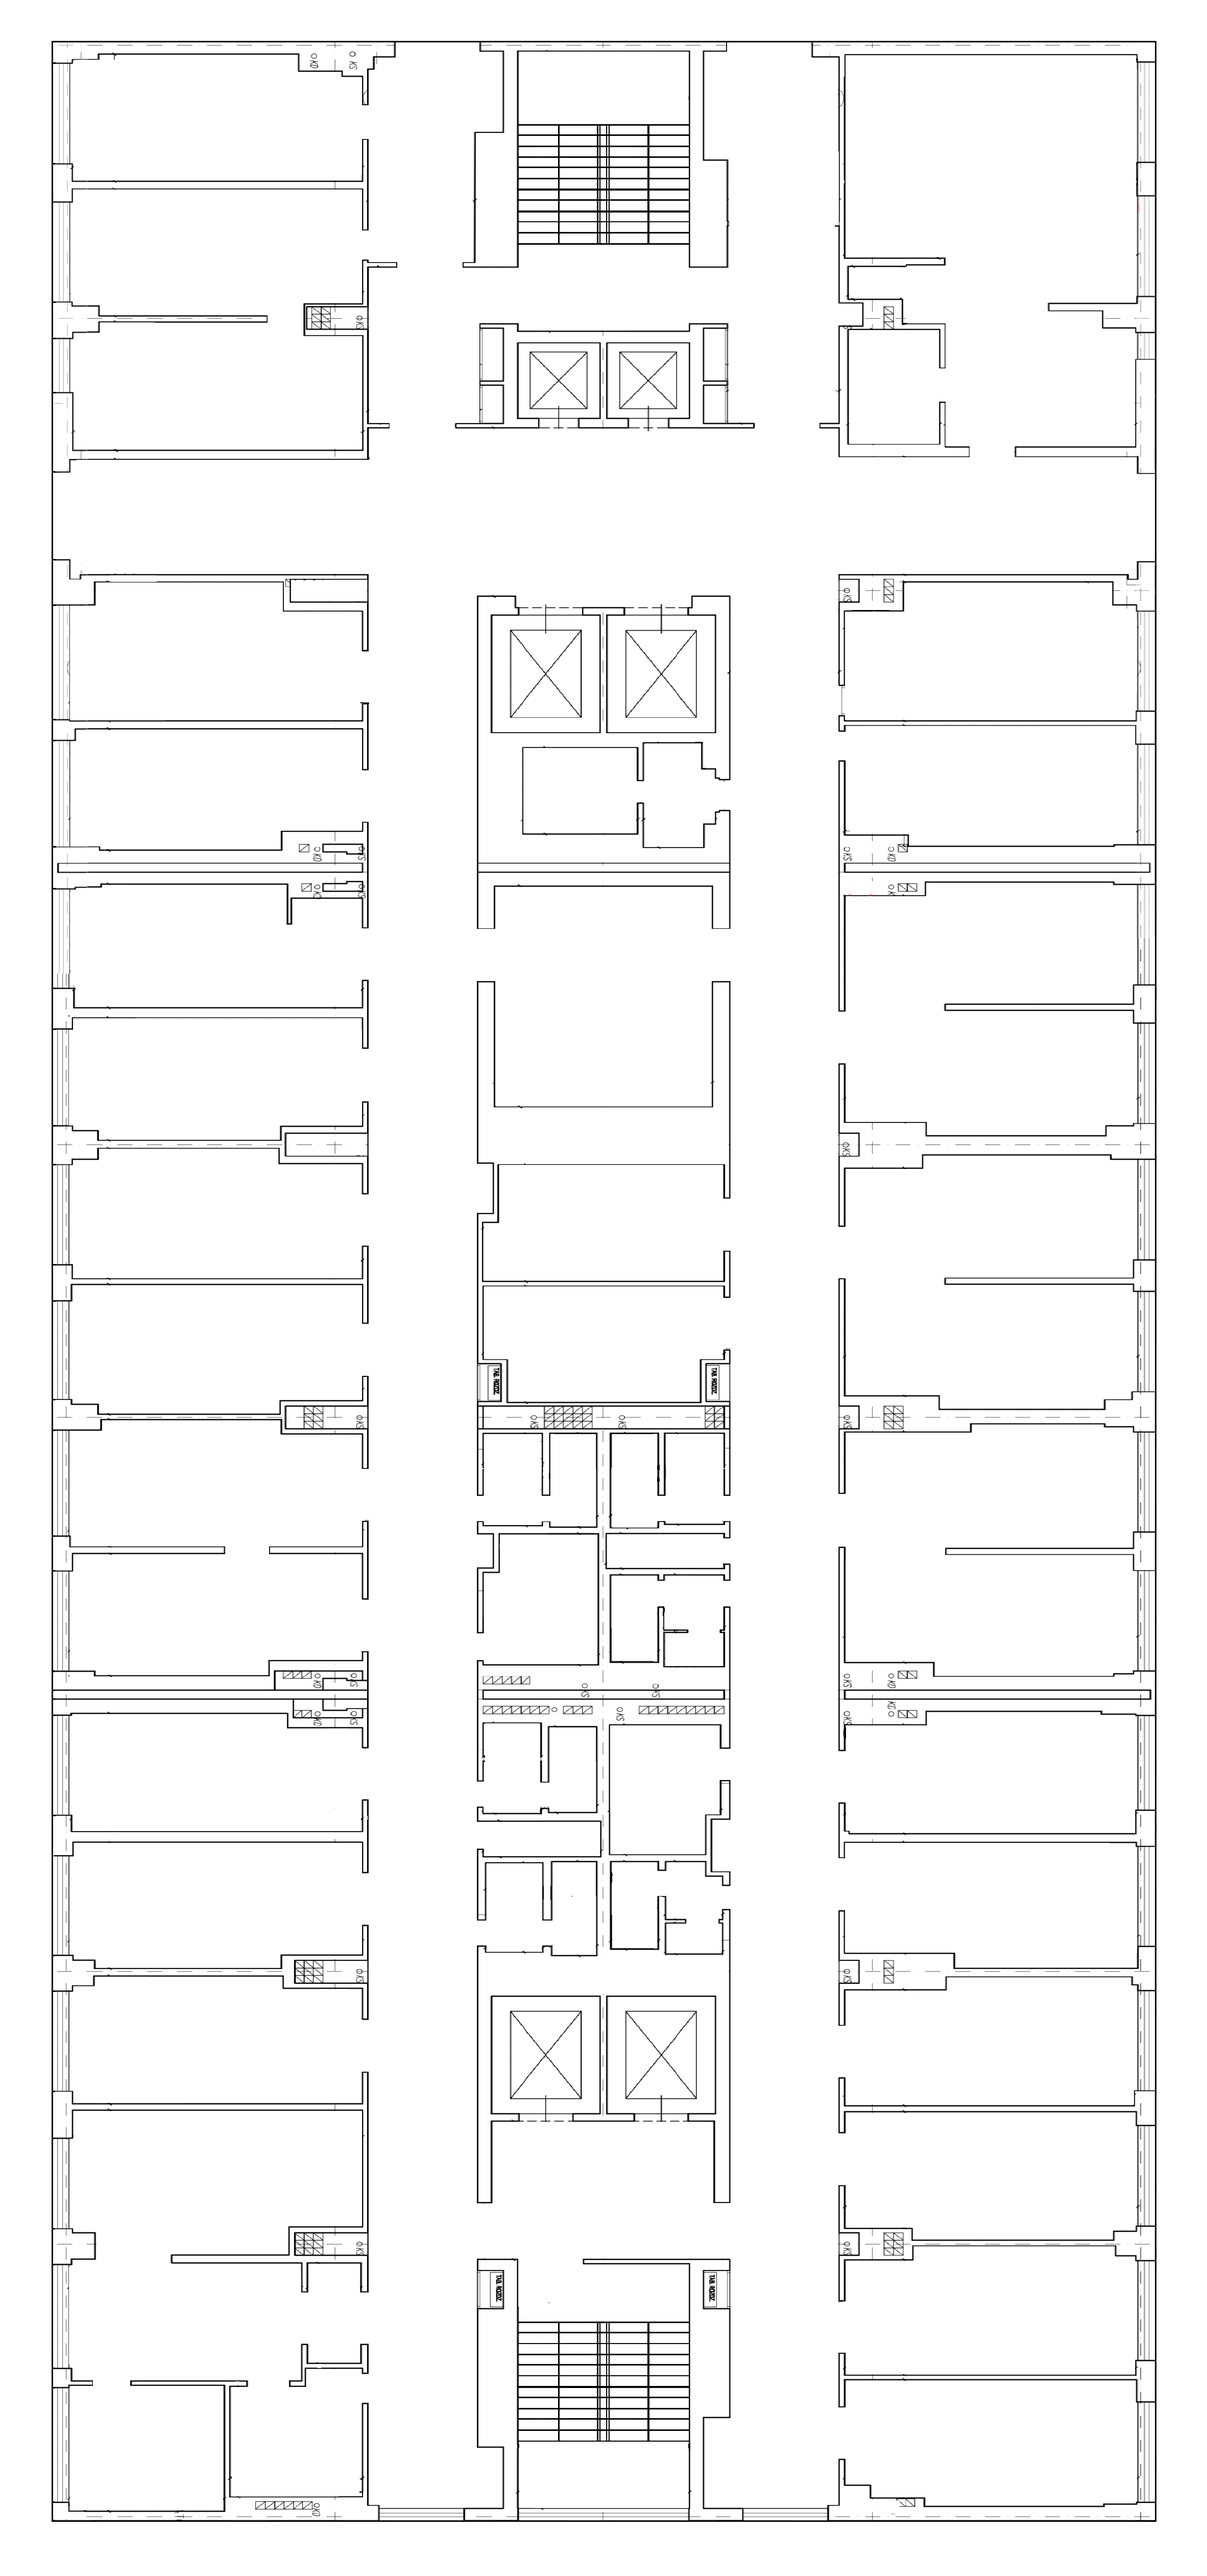
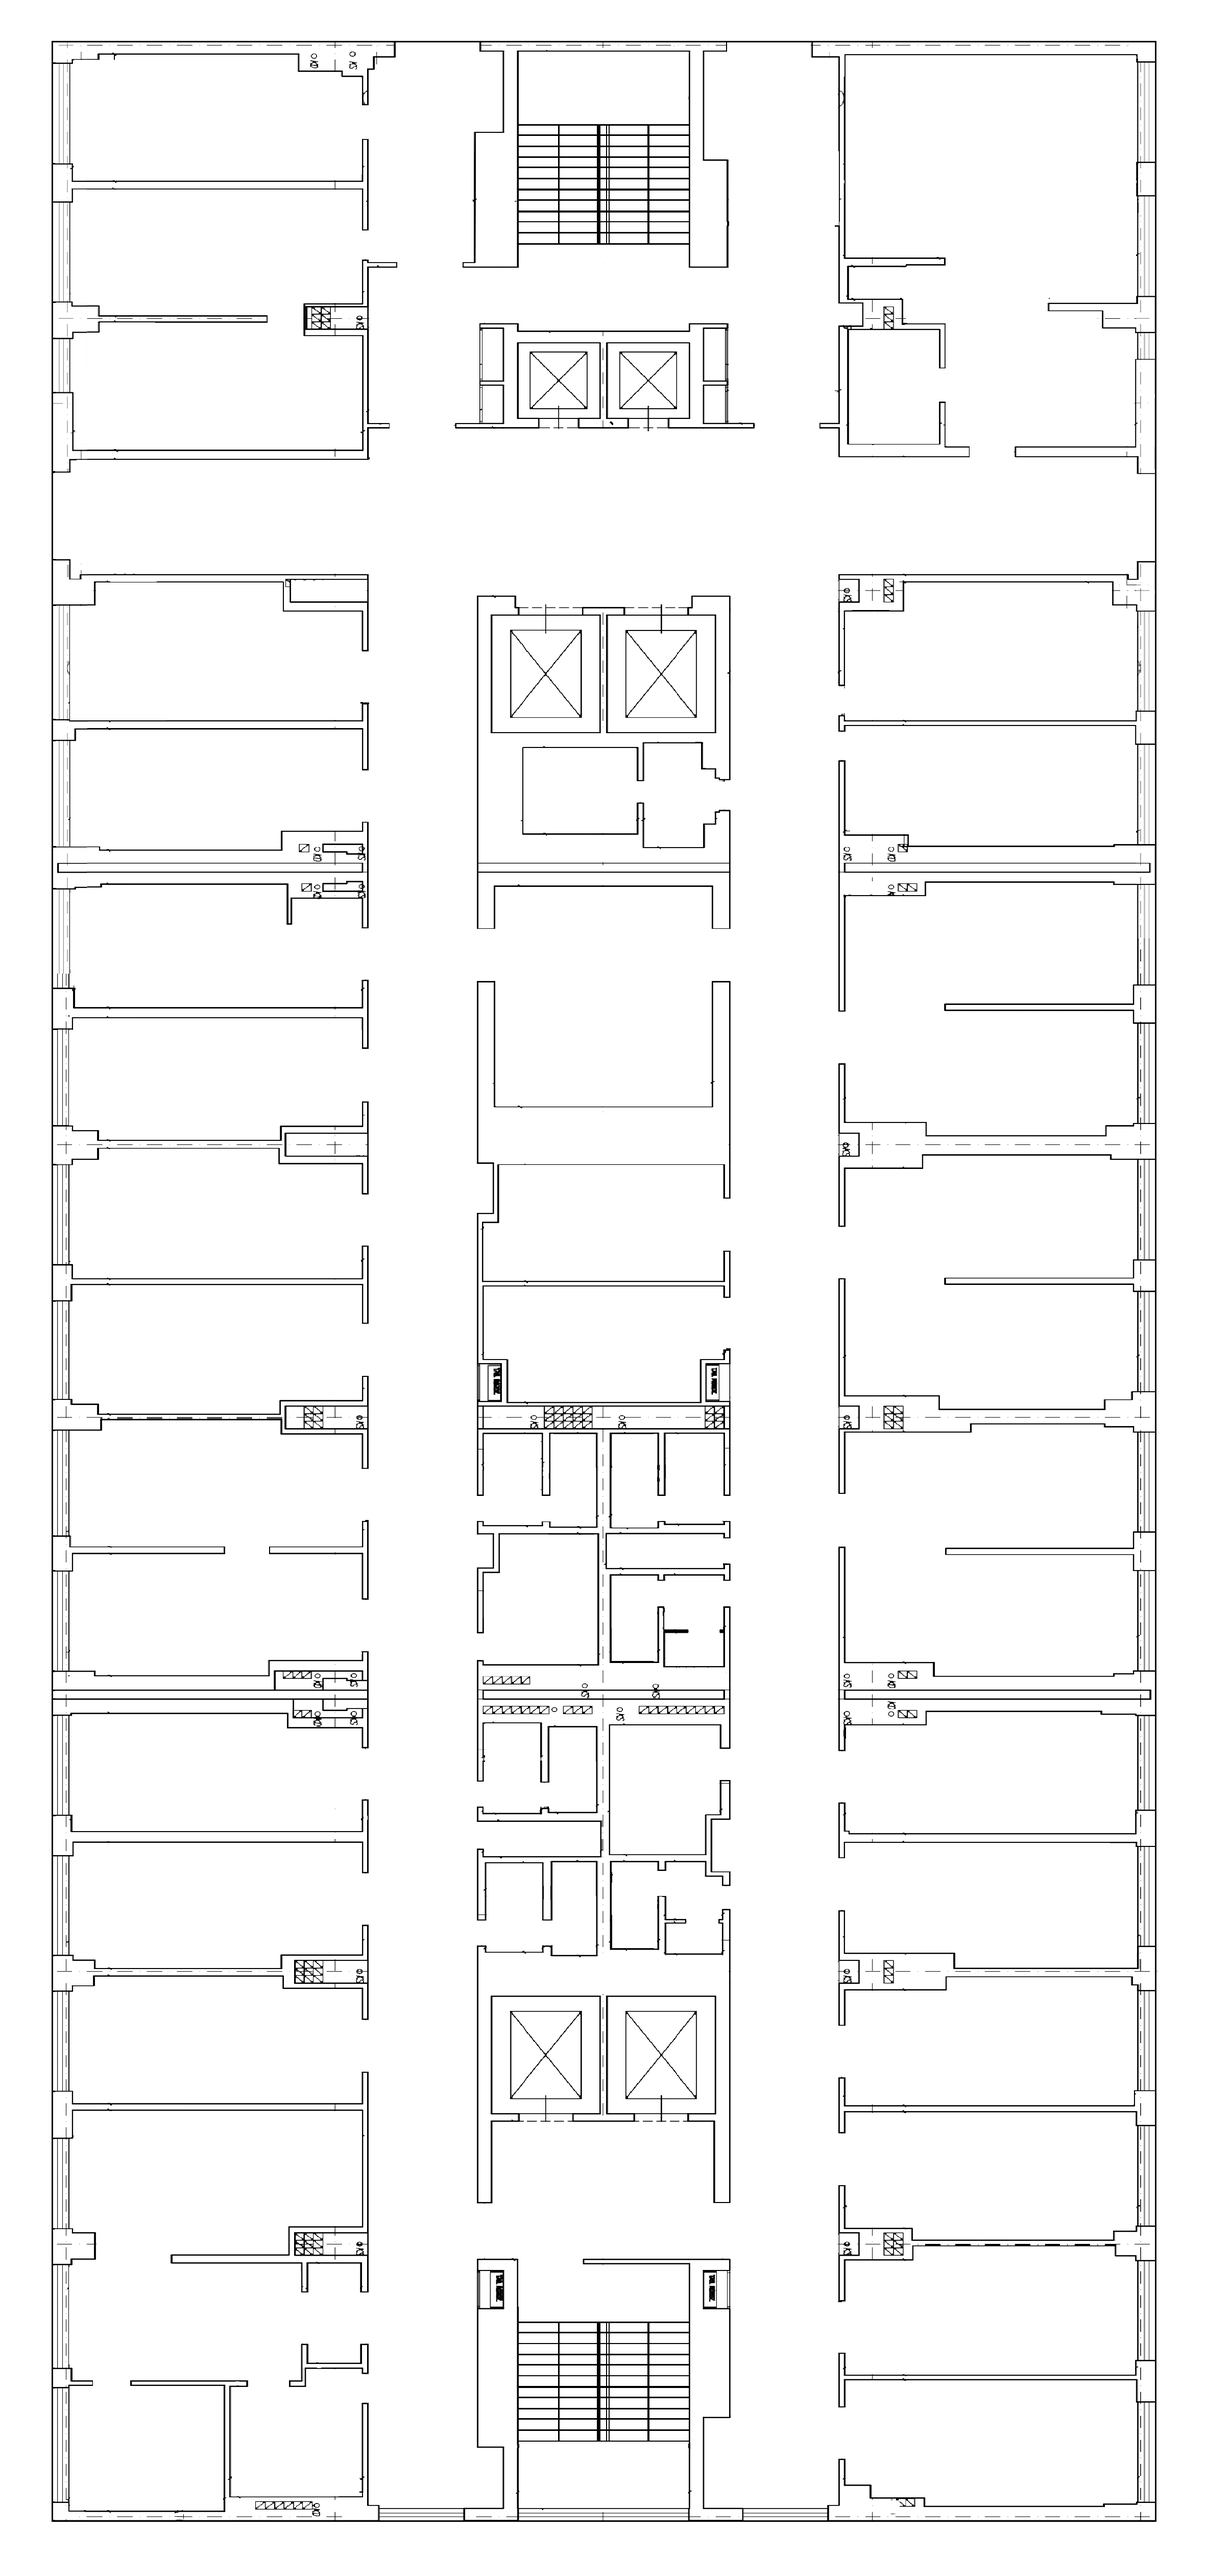
rozpoczęcie poprawek

diff --git a/static/js/campus.js b/static/js/campus.js
@@ -4,7 +4,6 @@ document.addEventListener("DOMContentLoaded", () => {
   // --- Konfiguracja pięter ---
   const FLOOR_OPTIONS = {
     "campus.png": ["powierzchnia", "podziemia"],
-    "gok_floor1.svg": ["1 piętro", "2 piętro", "3 piętro", "4 piętro", "5 piętro", "6 piętro", "7 piętro", "8 piętro"],
     "ssw_floor1.svg": ["1 piętro", "2 piętro", "3 piętro"],
     "c1_1.svg": ["Parter", "1 piętro", "2 piętro", "3 piętro", "4 piętro", "5 piętro", "5 piętro", "7 piętro", "8 piętro"],
     "c2_1.svg": ["Parter", "1 piętro"],

diff --git a/plan_editor.py b/plan_editor.py
@@ -1,22 +1,26 @@
 import cv2
 from matplotlib import pyplot as plt
 
-# Wczytaj obraz
-image = cv2.imread("static/img/C2-1.png")
+image = cv2.imread("static/img/C3_0.png")
 gray = cv2.cvtColor(image, cv2.COLOR_BGR2GRAY)
-cv2.imwrite("static/maps/C2_1.png", gray)
 
+amount = 1.5
+gauss_sigma = 1       # wygładzanie
+thresh_val = 200      # threshold intensywność linii
 
-# Progowanie - zostają czarne linie, reszta biała
-# (tutaj 200 - czyli wszystko ciemniejsze niż 200 = czarne)
-_, binary = cv2.threshold(gray, 200, 255, cv2.THRESH_BINARY)
+blurred = cv2.GaussianBlur(gray, (0,0), gauss_sigma)
+sharpen = cv2.addWeighted(gray, 1.0 + amount, blurred, -amount, 0)
 
-# Opcjonalne czyszczenie szumów
+_, binary = cv2.threshold(sharpen, thresh_val, 255, cv2.THRESH_BINARY)
+
+# czyszczenie szumów
 kernel = cv2.getStructuringElement(cv2.MORPH_RECT, (3,3))
-cleaned = cv2.morphologyEx(binary, cv2.MORPH_OPEN, kernel, iterations=1)
+cleaned = cv2.morphologyEx(sharpen, cv2.MORPH_OPEN, kernel, iterations=1)
 
-# Wyświetlenie
+
+cv2.imwrite("static/maps/C3_0.png", cleaned)
+
 plt.figure(figsize=(12,6))
 plt.subplot(121), plt.imshow(gray, cmap='gray'), plt.title("Oryginał")
-plt.subplot(122), plt.imshow(cleaned, cmap='gray'), plt.title("Plan: czarne linie na białym tle")
+plt.subplot(122), plt.imshow(cleaned, cmap='gray'), plt.title("Rezultat")
 plt.show()
